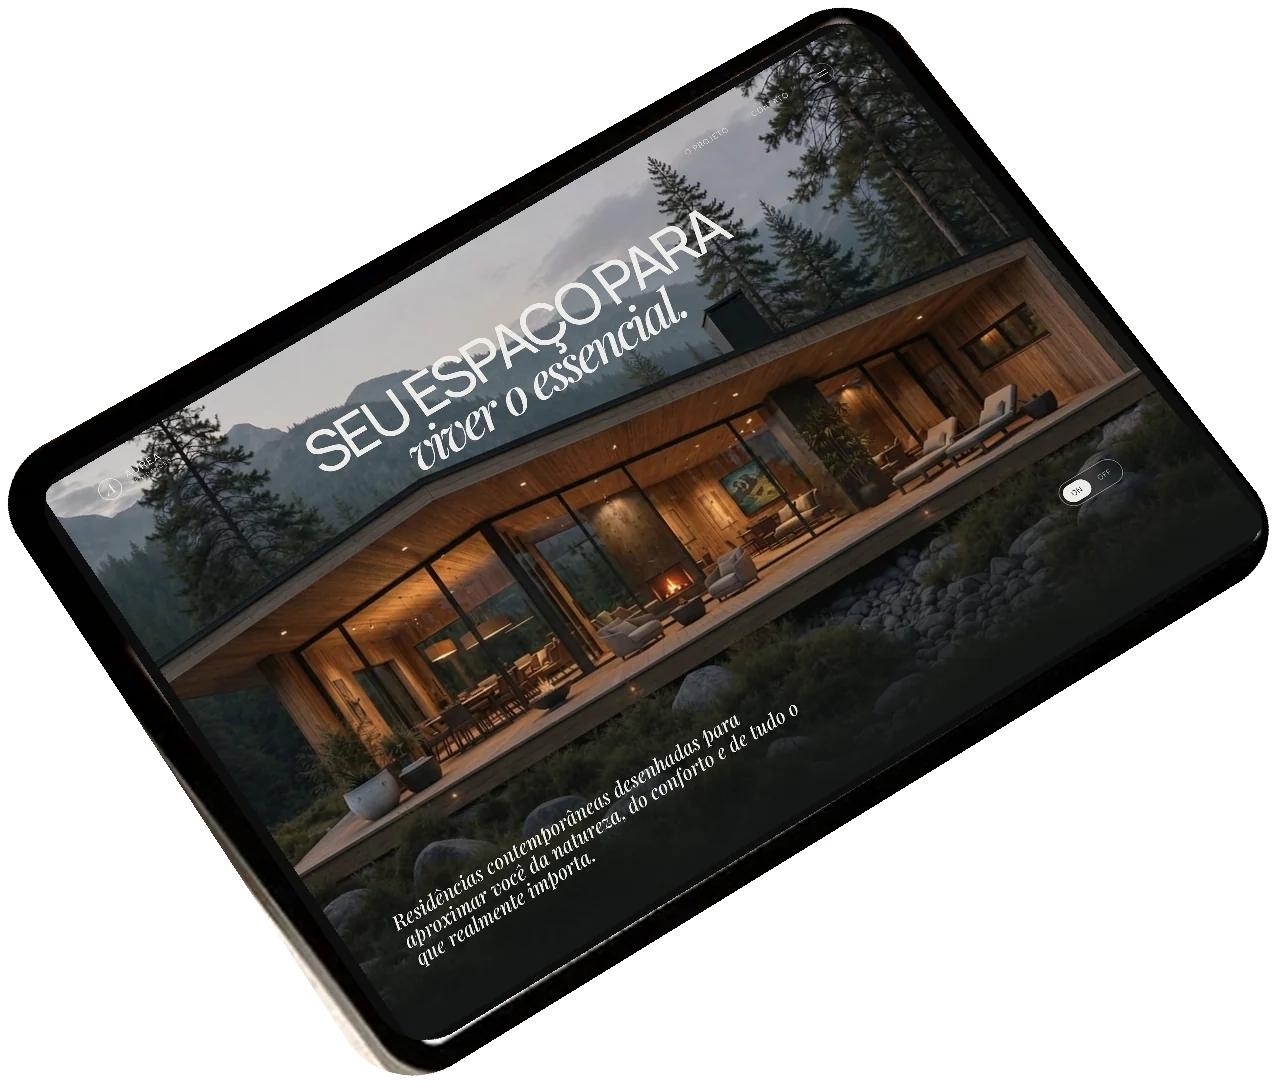
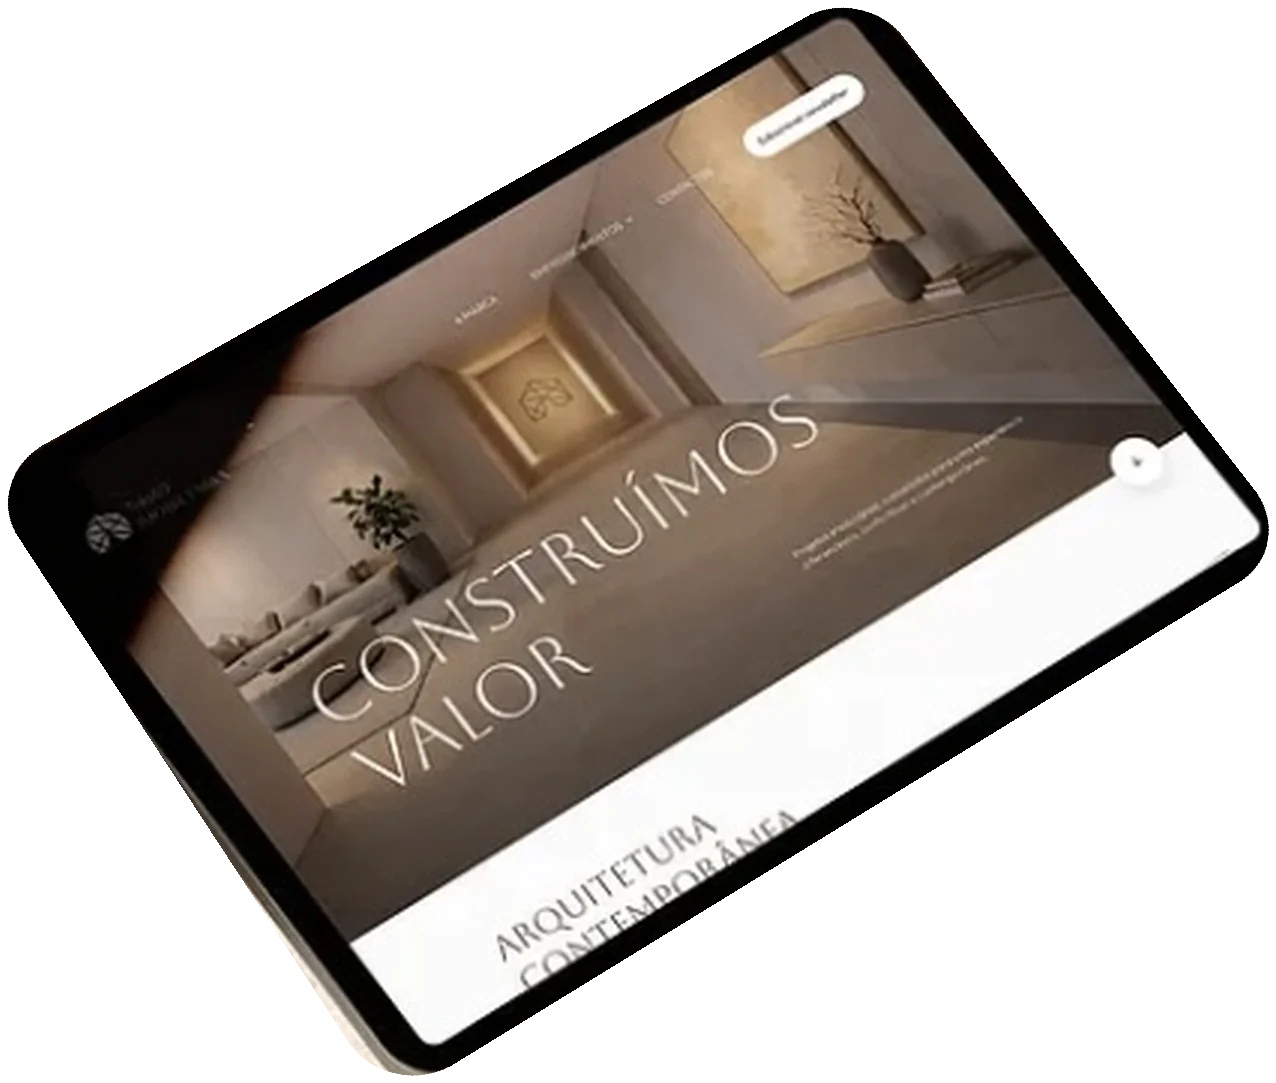
Volta a tela original do tablet (Construímos valor)
Claude-Session: https://claude.ai/code/session_01LSB262DKNR2V5uQgghL5rz

diff --git a/aurea/index.html b/aurea/index.html
@@ -843,7 +843,7 @@
         <h2 class="info__title" id="condominio-title">Realize seu projeto no <em>Campos do Conde.</em></h2>
         <p class="info__text">Lotes prontos para construir, cercados de natureza e com lazer completo para a sua família.</p>
         </div>
-        <img class="info__tablet" src="assets/img/tablet-site.webp" width="1276" height="1083" loading="lazy" decoding="async" alt="Tablet mostrando a página inicial do site, com a casa entre pinheiros e o título Seu espaço para viver o essencial">
+        <img class="info__tablet" src="assets/img/tablet-site.webp" width="1276" height="1083" loading="lazy" decoding="async" alt="Tablet mostrando um site de arquitetura com o título Construímos valor">
       </header>
 
       <ul class="facts" aria-label="Condições do Campos do Conde">
